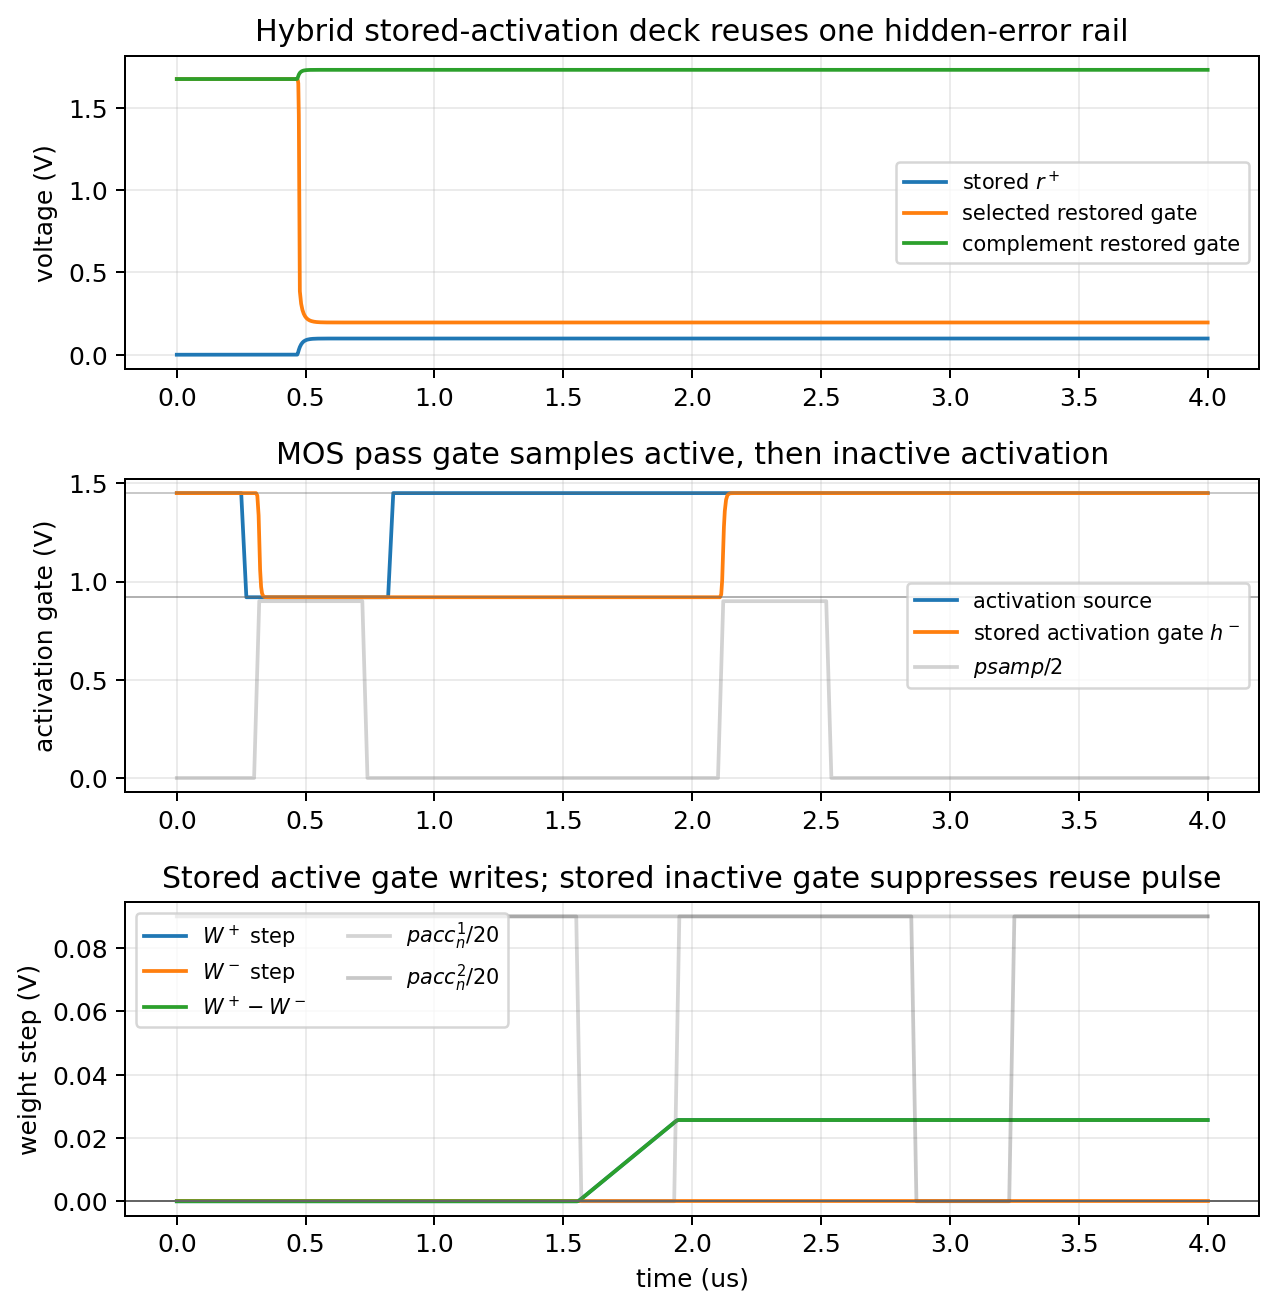
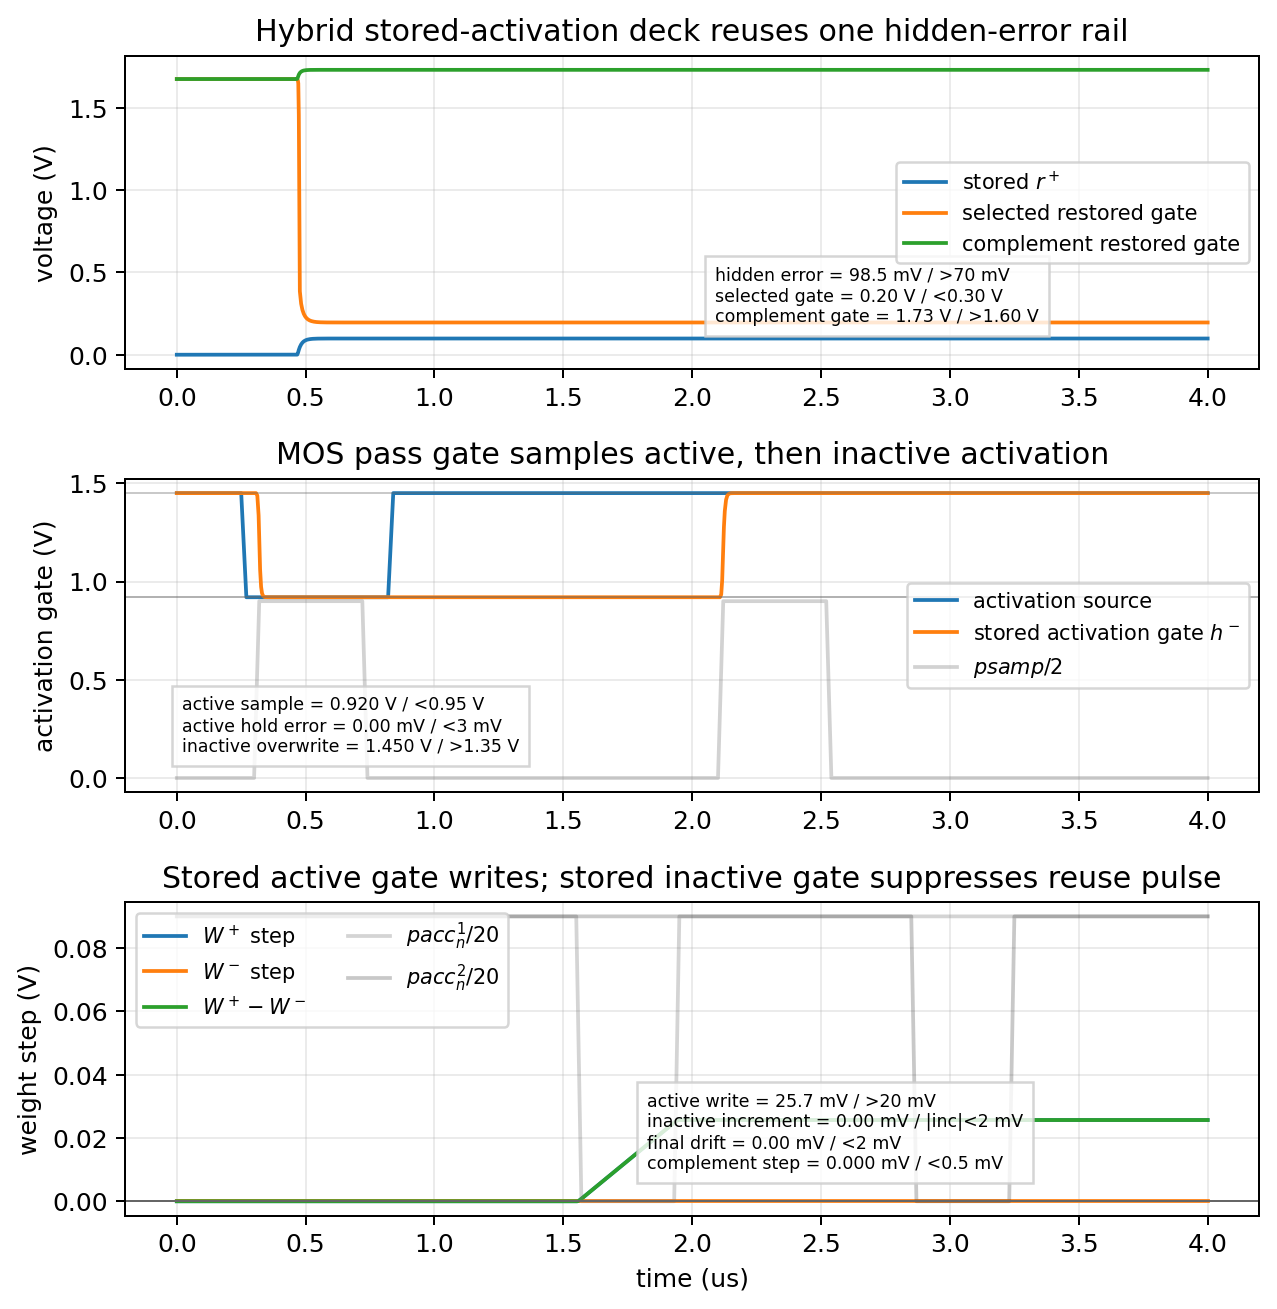
Annotate hybrid activation control margins

Changed region(s): [[0.4886, 0.8251, 0.8246, 0.9167], [0.5497, 0.1833, 0.8246, 0.275], [0.1222, 0.5195, 0.4276, 0.5806]]

diff --git a/spice/run_mos_cell_characterization.py b/spice/run_mos_cell_characterization.py
@@ -6158,19 +6158,27 @@ quit
     hyf_wp = hyf_cols[6]
     hyf_wm = hyf_cols[7]
     hyf_weight = hyf_wp - hyf_wm
+    hyf_hidden_sample = hyfat(1.35e-6, hyf_hidden)
+    hyf_selected_gate_sample = hyfat(1.45e-6, hyf_selected_gate)
+    hyf_complement_gate_sample = hyfat(1.45e-6, hyf_complement_gate)
+    hyf_active_hcap = hyfat(0.90e-6, hyf_hcap)
+    hyf_active_hold_error = abs(hyfat(1.40e-6, hyf_hcap) - hyf_active_hcap)
+    hyf_inactive_hcap = hyfat(2.65e-6, hyf_hcap)
     hyf_first_weight = hyfat(2.05e-6, hyf_weight)
     hyf_second_weight = hyfat(3.35e-6, hyf_weight)
     hyf_second_increment = hyf_second_weight - hyf_first_weight
+    hyf_final_drift = hyfat(3.85e-6, hyf_weight) - hyf_first_weight
+    hyf_complement_step = hyfat(3.35e-6, hyf_wm) - hyfat(1.45e-6, hyf_wm)
     require(hyfat(1.35e-6, hyf_hidden) > 0.07, "hybrid activation-store deck should store positive hidden error")
     require(hyfat(1.45e-6, hyf_selected_gate) < 0.30, "hybrid activation-store selected restored gate should be low")
     require(hyfat(1.45e-6, hyf_complement_gate) > 1.60, "hybrid activation-store complement restored gate should be high")
     require(hyfat(0.90e-6, hyf_hcap) < 0.95, "hybrid activation-store should sample active-low activation")
-    require(abs(hyfat(1.40e-6, hyf_hcap) - hyfat(0.90e-6, hyf_hcap)) < 0.003, "active activation cap should hold before first pacc")
+    require(hyf_active_hold_error < 0.003, "active activation cap should hold before first pacc")
     require(hyf_first_weight > 0.020, "active stored activation should produce a useful W+ write")
     require(hyfat(2.65e-6, hyf_hcap) > 1.35, "hybrid activation-store should overwrite with inactive-high activation")
     require(abs(hyf_second_increment) < 0.002, "inactive stored activation should suppress the second pacc write")
-    require(hyfat(3.85e-6, hyf_weight) - hyf_first_weight < 0.002, "hybrid activation-store final weight should not drift after inactive pulse")
-    require(hyfat(3.35e-6, hyf_wm) - hyfat(1.45e-6, hyf_wm) < 5e-4, "stored activation gate should keep complement rail suppressed")
+    require(hyf_final_drift < 0.002, "hybrid activation-store final weight should not drift after inactive pulse")
+    require(hyf_complement_step < 5e-4, "stored activation gate should keep complement rail suppressed")
 
     hyf_fig, hyf_axes = plt.subplots(3, 1, figsize=(7.2, 7.4))
     hyf_axes[0].plot(1e6 * hyft, hyf_hidden, label="stored $r^+$")
@@ -6179,6 +6187,19 @@ quit
     hyf_axes[0].set_ylabel("voltage (V)")
     hyf_axes[0].set_title("Hybrid stored-activation deck reuses one hidden-error rail")
     hyf_axes[0].grid(True, alpha=0.25)
+    hyf_axes[0].text(
+        0.52,
+        0.15,
+        "hidden error = "
+        f"{1e3 * hyf_hidden_sample:.1f} mV / >70 mV\n"
+        "selected gate = "
+        f"{hyf_selected_gate_sample:.2f} V / <0.30 V\n"
+        "complement gate = "
+        f"{hyf_complement_gate_sample:.2f} V / >1.60 V",
+        transform=hyf_axes[0].transAxes,
+        fontsize="x-small",
+        bbox=callout_box,
+    )
     hyf_axes[0].legend(loc="center right", fontsize="small")
     hyf_axes[1].plot(1e6 * hyft, hyf_hsrc, label="activation source")
     hyf_axes[1].plot(1e6 * hyft, hyf_hcap, label="stored activation gate $h^-$")
@@ -6188,6 +6209,19 @@ quit
     hyf_axes[1].set_ylabel("activation gate (V)")
     hyf_axes[1].set_title("MOS pass gate samples active, then inactive activation")
     hyf_axes[1].grid(True, alpha=0.25)
+    hyf_axes[1].text(
+        0.05,
+        0.13,
+        "active sample = "
+        f"{hyf_active_hcap:.3f} V / <0.95 V\n"
+        "active hold error = "
+        f"{1e3 * hyf_active_hold_error:.2f} mV / <3 mV\n"
+        "inactive overwrite = "
+        f"{hyf_inactive_hcap:.3f} V / >1.35 V",
+        transform=hyf_axes[1].transAxes,
+        fontsize="x-small",
+        bbox=callout_box,
+    )
     hyf_axes[1].legend(loc="center right", fontsize="small")
     hyf_axes[2].plot(1e6 * hyft, hyf_wp - hyfat(1.45e-6, hyf_wp), label="$W^+$ step")
     hyf_axes[2].plot(1e6 * hyft, hyf_wm - hyfat(1.45e-6, hyf_wm), label="$W^-$ step")
@@ -6199,6 +6233,21 @@ quit
     hyf_axes[2].set_ylabel("weight step (V)")
     hyf_axes[2].set_title("Stored active gate writes; stored inactive gate suppresses reuse pulse")
     hyf_axes[2].grid(True, alpha=0.25)
+    hyf_axes[2].text(
+        0.46,
+        0.15,
+        "active write = "
+        f"{1e3 * hyf_first_weight:.1f} mV / >20 mV\n"
+        "inactive increment = "
+        f"{1e3 * hyf_second_increment:.2f} mV / |inc|<2 mV\n"
+        "final drift = "
+        f"{1e3 * hyf_final_drift:.2f} mV / <2 mV\n"
+        "complement step = "
+        f"{1e3 * hyf_complement_step:.3f} mV / <0.5 mV",
+        transform=hyf_axes[2].transAxes,
+        fontsize="x-small",
+        bbox=callout_box,
+    )
     hyf_axes[2].legend(loc="upper left", ncol=2, fontsize="small")
     hyf_fig.tight_layout()
     save_plot(hyf_fig, "mos_hidden_writer_restored_gate_hybrid_activation_store_ngspice")
@@ -6303,6 +6352,9 @@ quit
     hygg_hidden = hygg_cols[0] - hygg_cols[1]
     hygg_selected_gate = hygg_cols[2]
     hygg_complement_gate = hygg_cols[3]
+    hygg_hidden_sample = hyggat(1.35e-6, hygg_hidden)
+    hygg_selected_gate_sample = hyggat(1.45e-6, hygg_selected_gate)
+    hygg_complement_gate_sample = hyggat(1.45e-6, hygg_complement_gate)
     hygg_final = []
     hygg_hcap_at_start = []
     hygg_wm_step = []
@@ -6319,6 +6371,9 @@ quit
     hygg_final = np.array(hygg_final)
     hygg_hcap_at_start = np.array(hygg_hcap_at_start)
     hygg_wm_step = np.array(hygg_wm_step)
+    hygg_settled_min = float(np.min(hygg_final[2:]))
+    hygg_settled_spread = float(np.max(hygg_final[2:]) - np.min(hygg_final[2:]))
+    hygg_complement_max = float(np.max(hygg_wm_step))
     require(hyggat(1.35e-6, hygg_hidden) > 0.07, "hybrid activation-timing deck should store positive hidden error")
     require(hyggat(1.45e-6, hygg_selected_gate) < 0.30, "hybrid activation-timing selected restored gate should be low")
     require(hyggat(1.45e-6, hygg_complement_gate) > 1.60, "hybrid activation-timing complement restored gate should be high")
@@ -6339,6 +6394,17 @@ quit
     hygg_axes[0].set_title("Hybrid activation-timing sweep shares one hidden-error rail")
     hygg_axes[0].set_xlim(0.35, 2.35)
     hygg_axes[0].grid(True, alpha=0.25)
+    hygg_axes[0].text(
+        0.05,
+        0.14,
+        "hidden error = "
+        f"{1e3 * hygg_hidden_sample:.1f} mV / >70 mV\n"
+        "selected/complement gates = "
+        f"{hygg_selected_gate_sample:.2f}/{hygg_complement_gate_sample:.2f} V",
+        transform=hygg_axes[0].transAxes,
+        fontsize="x-small",
+        bbox=callout_box,
+    )
     hygg_axes[0].legend(loc="center right", ncol=2, fontsize="small")
     hygg_x = np.arange(len(hybrid_activation_timing_cases))
     hygg_labels = [label for _name, label, _start, _end in hybrid_activation_timing_cases]
@@ -6350,6 +6416,17 @@ quit
     hygg_axes[1].set_ylabel("activation gate (V)")
     hygg_axes[1].set_title("sampled activation seen when pacc starts")
     hygg_axes[1].grid(True, alpha=0.25)
+    hygg_axes[1].text(
+        0.54,
+        0.13,
+        "pre/sample-edge gates = "
+        f"{hygg_hcap_at_start[0]:.2f}, {hygg_hcap_at_start[1]:.2f} V\n"
+        "settled active gates = "
+        f"{np.min(hygg_hcap_at_start[2:]):.2f}--{np.max(hygg_hcap_at_start[2:]):.2f} V",
+        transform=hygg_axes[1].transAxes,
+        fontsize="x-small",
+        bbox=callout_box,
+    )
     hygg_axes[1].legend(loc="center right", ncol=3, fontsize="small")
     hygg_axes[2].plot(hygg_x, 1e3 * hygg_final, "o-", label="$W^+ - W^-$")
     hygg_axes[2].plot(hygg_x, 1e3 * hygg_wm_step, "s--", label="complement $W^-$ step")
@@ -6359,6 +6436,23 @@ quit
     hygg_axes[2].set_ylabel("writer step (mV)")
     hygg_axes[2].set_title("pacc must wait for activation-store sampling margin")
     hygg_axes[2].grid(True, alpha=0.25)
+    hygg_axes[2].text(
+        0.49,
+        0.14,
+        "pre-sample = "
+        f"{1e3 * hygg_final[0]:.2f} mV / <2 mV\n"
+        "sample-edge = "
+        f"{1e3 * hygg_final[1]:.1f} mV\n"
+        "settled min = "
+        f"{1e3 * hygg_settled_min:.1f} mV / >90% final\n"
+        "settled spread = "
+        f"{1e3 * hygg_settled_spread:.2f} mV / <4 mV\n"
+        "complement max = "
+        f"{1e3 * hygg_complement_max:.3f} mV / <0.5 mV",
+        transform=hygg_axes[2].transAxes,
+        fontsize="x-small",
+        bbox=callout_box,
+    )
     hygg_axes[2].legend(loc="upper left", ncol=2, fontsize="small")
     hygg_fig.tight_layout()
     save_plot(hygg_fig, "mos_hidden_writer_restored_gate_hybrid_activation_timing_ngspice")
@@ -6470,6 +6564,11 @@ quit
     hyw_selected_gate = hyw_cols[2]
     hyw_complement_gate = hyw_cols[3]
     hyw_hcap = hyw_cols[4]
+    hyw_hidden_sample = hywat(1.35e-6, hyw_hidden)
+    hyw_selected_gate_sample = hywat(1.45e-6, hyw_selected_gate)
+    hyw_complement_gate_sample = hywat(1.45e-6, hyw_complement_gate)
+    hyw_hcap_sample = hywat(2.00e-6, hyw_hcap)
+    hyw_hcap_hold_error = abs(hywat(3.00e-6, hyw_hcap) - hyw_hcap_sample)
     hyw_width_ns = np.array([(end_us - start_us) * 1e3 for _name, _label, start_us, end_us in hybrid_width_cases])
     hyw_final = []
     hyw_wp_step = []
@@ -6487,6 +6586,8 @@ quit
     hyw_wm_step = np.array(hyw_wm_step)
     hyw_fit = np.polyval(np.polyfit(hyw_width_ns, hyw_final, 1), hyw_width_ns)
     hyw_r2 = 1.0 - float(np.sum((hyw_final - hyw_fit) ** 2) / np.sum((hyw_final - np.mean(hyw_final)) ** 2))
+    hyw_complement_max = float(np.max(hyw_wm_step))
+    hyw_selected_dominance_error = float(np.max(np.abs(hyw_final - hyw_wp_step)))
     require(hywat(1.35e-6, hyw_hidden) > 0.07, "hybrid width deck should store positive hidden error")
     require(hywat(1.45e-6, hyw_selected_gate) < 0.30, "hybrid width selected restored gate should be low")
     require(hywat(1.45e-6, hyw_complement_gate) > 1.60, "hybrid width complement restored gate should be high")
@@ -6496,8 +6597,8 @@ quit
     require(hyw_final[0] > 0.001, "short hybrid pacc pulse should create a measurable update")
     require(hyw_final[-1] < 0.12, "long hybrid pacc pulse should remain in incremental range")
     require(hyw_r2 > 0.995, "hybrid pacc width response should be near-linear over the tested width range")
-    require(np.max(hyw_wm_step) < 5e-4, "hybrid pacc width sweep should keep complement rail suppressed")
-    require(np.max(np.abs(hyw_final - hyw_wp_step)) < 6e-4, "hybrid pacc width signed write should be selected-rail dominated")
+    require(hyw_complement_max < 5e-4, "hybrid pacc width sweep should keep complement rail suppressed")
+    require(hyw_selected_dominance_error < 6e-4, "hybrid pacc width signed write should be selected-rail dominated")
 
     hyw_fig, hyw_axes = plt.subplots(3, 1, figsize=(7.2, 7.2), gridspec_kw={"height_ratios": [1.15, 1.0, 1.0]})
     hyw_axes[0].plot(1e6 * hywt, hyw_hidden, label="stored $r^+$")
@@ -6508,6 +6609,21 @@ quit
     hyw_axes[0].set_ylabel("voltage (V)")
     hyw_axes[0].set_title("Hybrid width sweep shares hidden-error and sampled activation state")
     hyw_axes[0].grid(True, alpha=0.25)
+    hyw_axes[0].text(
+        0.52,
+        0.14,
+        "hidden error = "
+        f"{1e3 * hyw_hidden_sample:.1f} mV / >70 mV\n"
+        "selected/complement gates = "
+        f"{hyw_selected_gate_sample:.2f}/{hyw_complement_gate_sample:.2f} V\n"
+        "sampled h- = "
+        f"{hyw_hcap_sample:.3f} V / 0.92+/-0.01 V\n"
+        "h- hold error = "
+        f"{1e3 * hyw_hcap_hold_error:.2f} mV / <2 mV",
+        transform=hyw_axes[0].transAxes,
+        fontsize="x-small",
+        bbox=callout_box,
+    )
     hyw_axes[0].legend(loc="center right", ncol=2, fontsize="small")
     for idx, (_name, label, _start_us, _end_us) in enumerate(hybrid_width_cases):
         base = 5 + 3 * idx
@@ -6516,6 +6632,17 @@ quit
     hyw_axes[1].set_ylabel("$W^+ - W^-$ (mV)")
     hyw_axes[1].set_title("active-low pacc pulse width controls signed update magnitude")
     hyw_axes[1].grid(True, alpha=0.25)
+    hyw_axes[1].text(
+        0.05,
+        0.15,
+        "step range = "
+        f"{1e3 * hyw_final[0]:.1f}--{1e3 * hyw_final[-1]:.1f} mV\n"
+        "monotone increments min = "
+        f"{1e3 * np.min(np.diff(hyw_final)):.1f} mV / >2 mV",
+        transform=hyw_axes[1].transAxes,
+        fontsize="x-small",
+        bbox=callout_box,
+    )
     hyw_axes[1].legend(loc="upper left", ncol=3, fontsize="small")
     hyw_axes[2].plot(hyw_width_ns, 1e3 * hyw_final, "o-", label="$W^+ - W^-$")
     hyw_axes[2].plot(hyw_width_ns, 1e3 * hyw_wm_step, "s--", label="complement $W^-$ step")
@@ -6524,6 +6651,19 @@ quit
     hyw_axes[2].set_ylabel("final step (mV)")
     hyw_axes[2].set_title("learning-rate pulse width is monotone and linear in this window")
     hyw_axes[2].grid(True, alpha=0.25)
+    hyw_axes[2].text(
+        0.48,
+        0.14,
+        "R2 = "
+        f"{hyw_r2:.5f} / >0.995\n"
+        "complement max = "
+        f"{1e3 * hyw_complement_max:.3f} mV / <0.5 mV\n"
+        "selected-dominance err = "
+        f"{1e3 * hyw_selected_dominance_error:.3f} mV / <0.6 mV",
+        transform=hyw_axes[2].transAxes,
+        fontsize="x-small",
+        bbox=callout_box,
+    )
     hyw_axes[2].legend(loc="upper left", fontsize="small")
     hyw_fig.tight_layout()
     save_plot(hyw_fig, "mos_hidden_writer_restored_gate_hybrid_width_ngspice")

diff --git a/engineering_log.md b/engineering_log.md
@@ -805,3 +805,4 @@
 - Added a shifted-gate reset-switch threshold-corner check for both calibrated severe trim polarities. The new deck gives the reset transmission gates explicit strong, nominal, weak, and skewed `VTO` models while reusing the `+30 mV` skew / `-55 mV` trim and `-30 mV` skew / `+65 mV` trim branches. Across all corners, sampled trim error stays below `0.004 mV`, reset common-mode error below `0.009 mV`, and mean stored activation remains `46.971..46.972 mV` for the negative-trim branch and `46.978 mV` for the positive-trim branch. This narrows the remaining shifted-gate risk: ordinary reset TG threshold corners are not the visible limiter in the Level-1 fixture; forward-pair offset calibration and differential trim delivery still are.
 - Added a finite reset-reference source-impedance check for the shifted-gate split-reset rails. With nominal reset switches and severe calibrated branches (`+30 mV` skew / `-55 mV` trim and `-30 mV` skew / `+65 mV` trim), `0` and `1 kOhm` source impedance preserve trim within `0.067 mV` and keep stored activation around `47 mV`. At `10 kOhm`, the first short pre-reset pulse already under-delivers: the negative-trim branch samples only `-31.782 mV` on the first reset and stores `1.964/41.967/44.688 mV`, while the positive-trim branch samples `37.563 mV` and stores `97.472/48.589/45.160 mV`. At `100 kOhm` and above the latch returns to the known under-trim failure directions. The reset TGs have device-corner margin, but the trim-reference driver must be low impedance or the reset pulse must be lengthened before this calibration is array-realistic.
 - Added ngspice-derived callouts to the hybrid writer activation, product-router, and reset/reuse figures. The activation sweep now exposes the stored hidden error (`98.5 mV`), restored-gate separation (`1.54 V`), positive incremental write range (`33.4--59.3 mV`), gain ratio (`1.78x`), and suppressed complement rail (`0.000 mV`). The four-quadrant product plot now reports symmetric stored errors (`+/-98.5 mV`), selected/complement restored gates (`0.20/1.73 V`), exact activation sampling in this fixture, minimum signed update (`23.0 mV`), zero displayed quadrant spread, and suppressed inactive rail. The reuse plot now reports reset residue/common-mode error near zero, no visible reset disturbance of persistent weight caps, `25.7 mV` first write, `25.7 mV` opposite-sign cancellation, and zero displayed final hold error. This did not change circuit behavior; it makes the existing ngspice pass margins visible in the paper plots.
+- Added ngspice-derived callouts to the adjacent hybrid activation-control figures. The activation-store plot now shows the stored hidden error (`98.5 mV`), selected/complement restored gates (`0.20/1.73 V`), active activation sample (`0.920 V`), inactive overwrite (`1.450 V`), active write (`25.7 mV`), zero displayed inactive increment, final drift, and complement step. The activation-timing sweep now makes the required sample-before-write ordering explicit: pre-sample write is `0.00 mV`, sample-edge write is `16.7 mV`, settled writes are at least `24.3 mV`, settled spread is `0.00 mV`, and the complement rail stays at `0.000 mV`. The pacc-width sweep now reports the stored hidden/error gates, sampled activation hold, monotone step range (`2.9--43.1 mV`), minimum width increment (`2.7 mV`), linearity (`R2=1.00000`), and zero displayed complement/selected-dominance error. This keeps the figure captions backed by the same ngspice traces and assertions rather than adding a separate hand-written interpretation.
